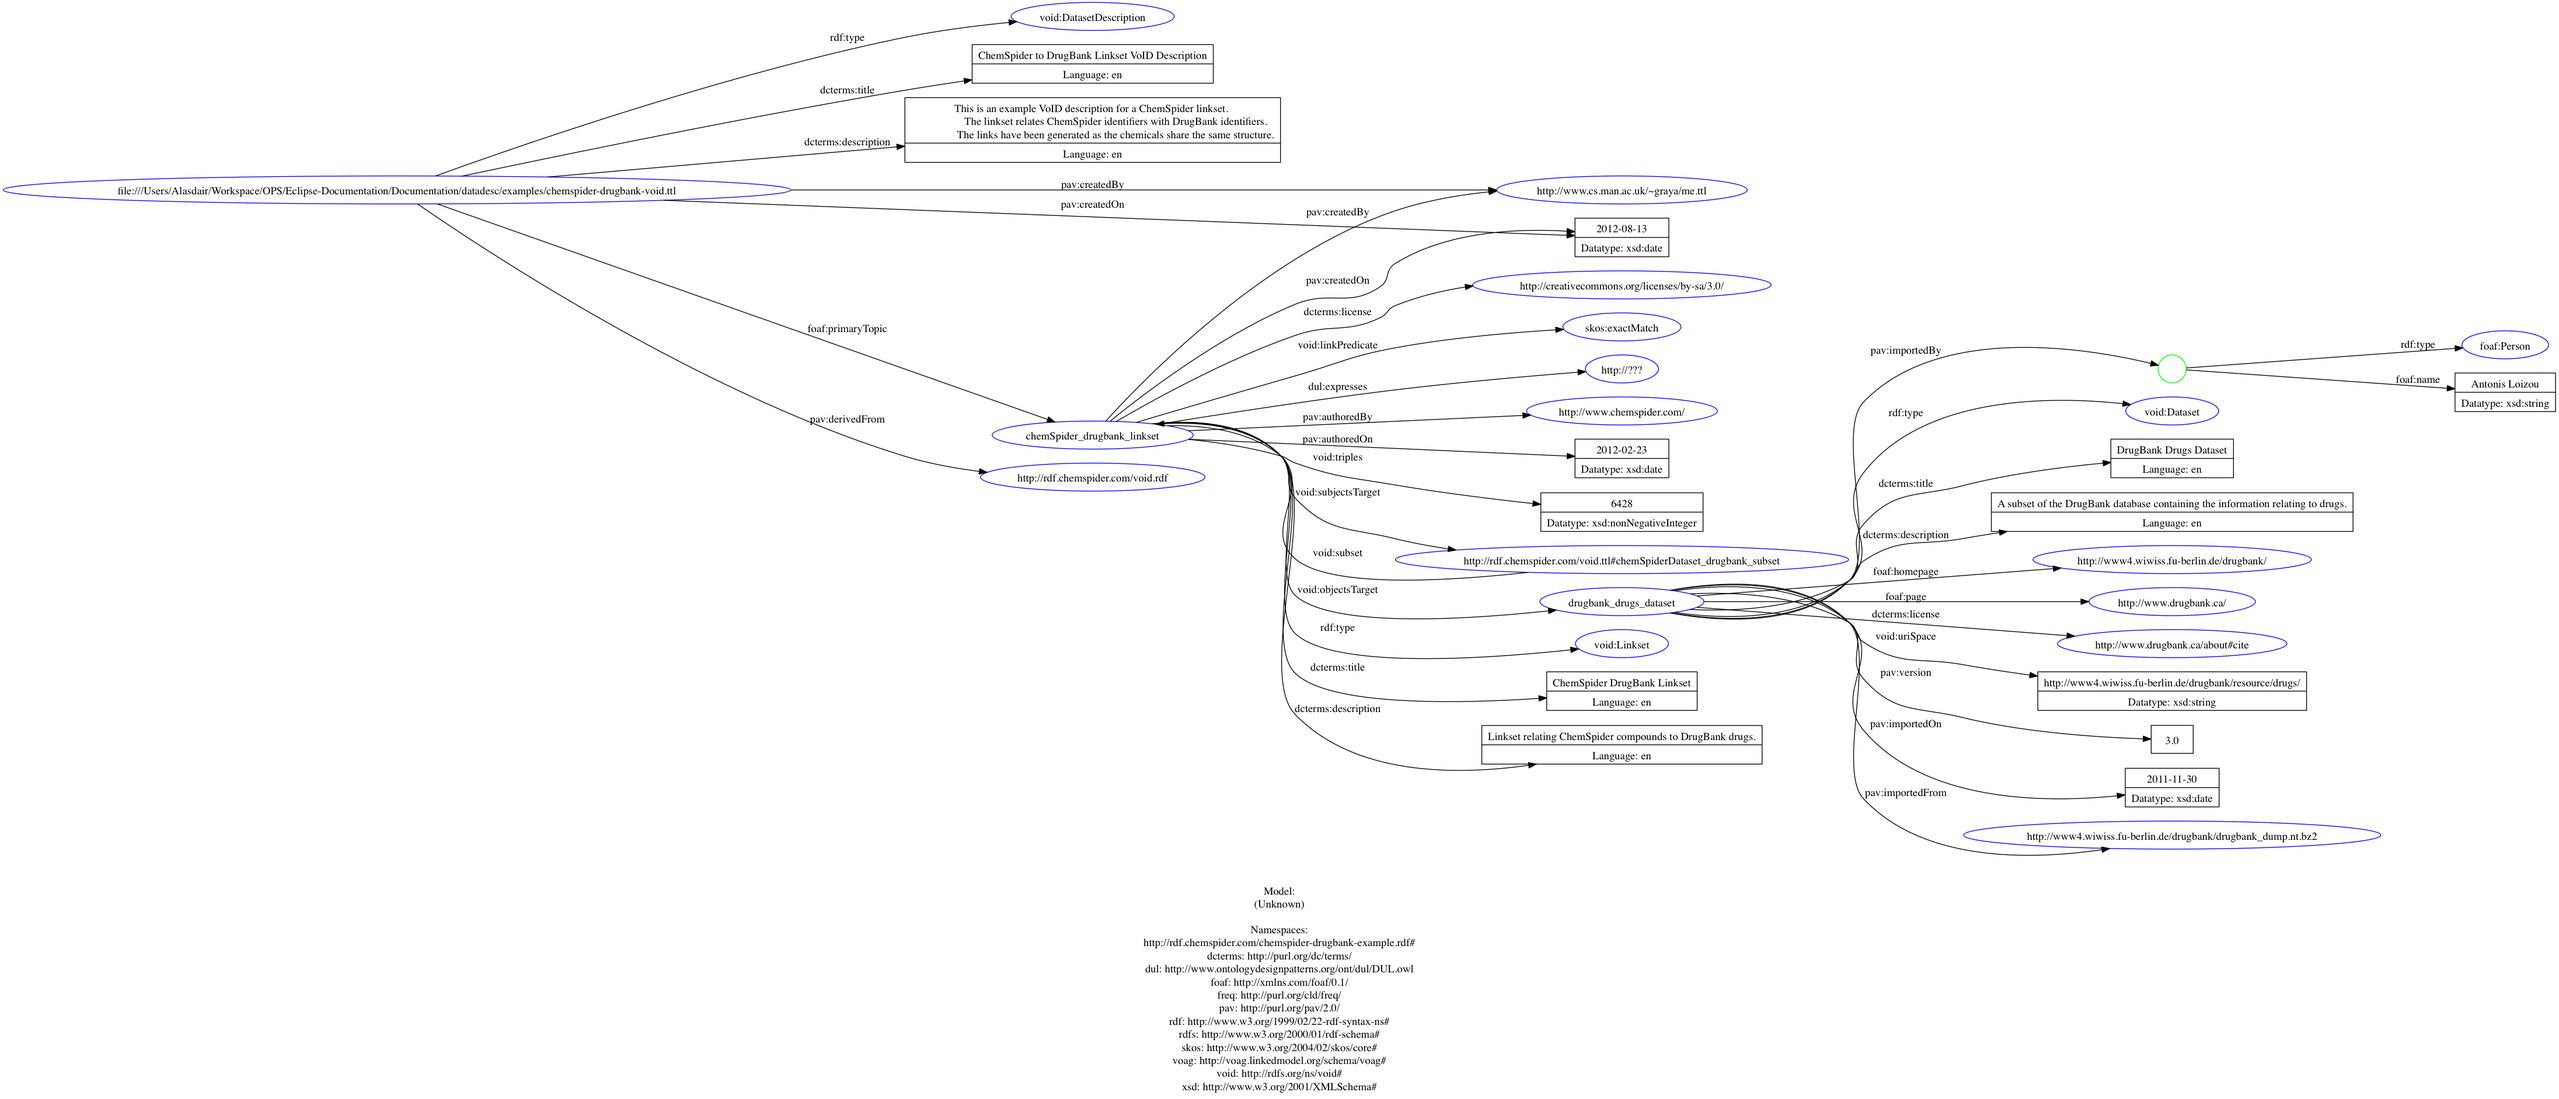
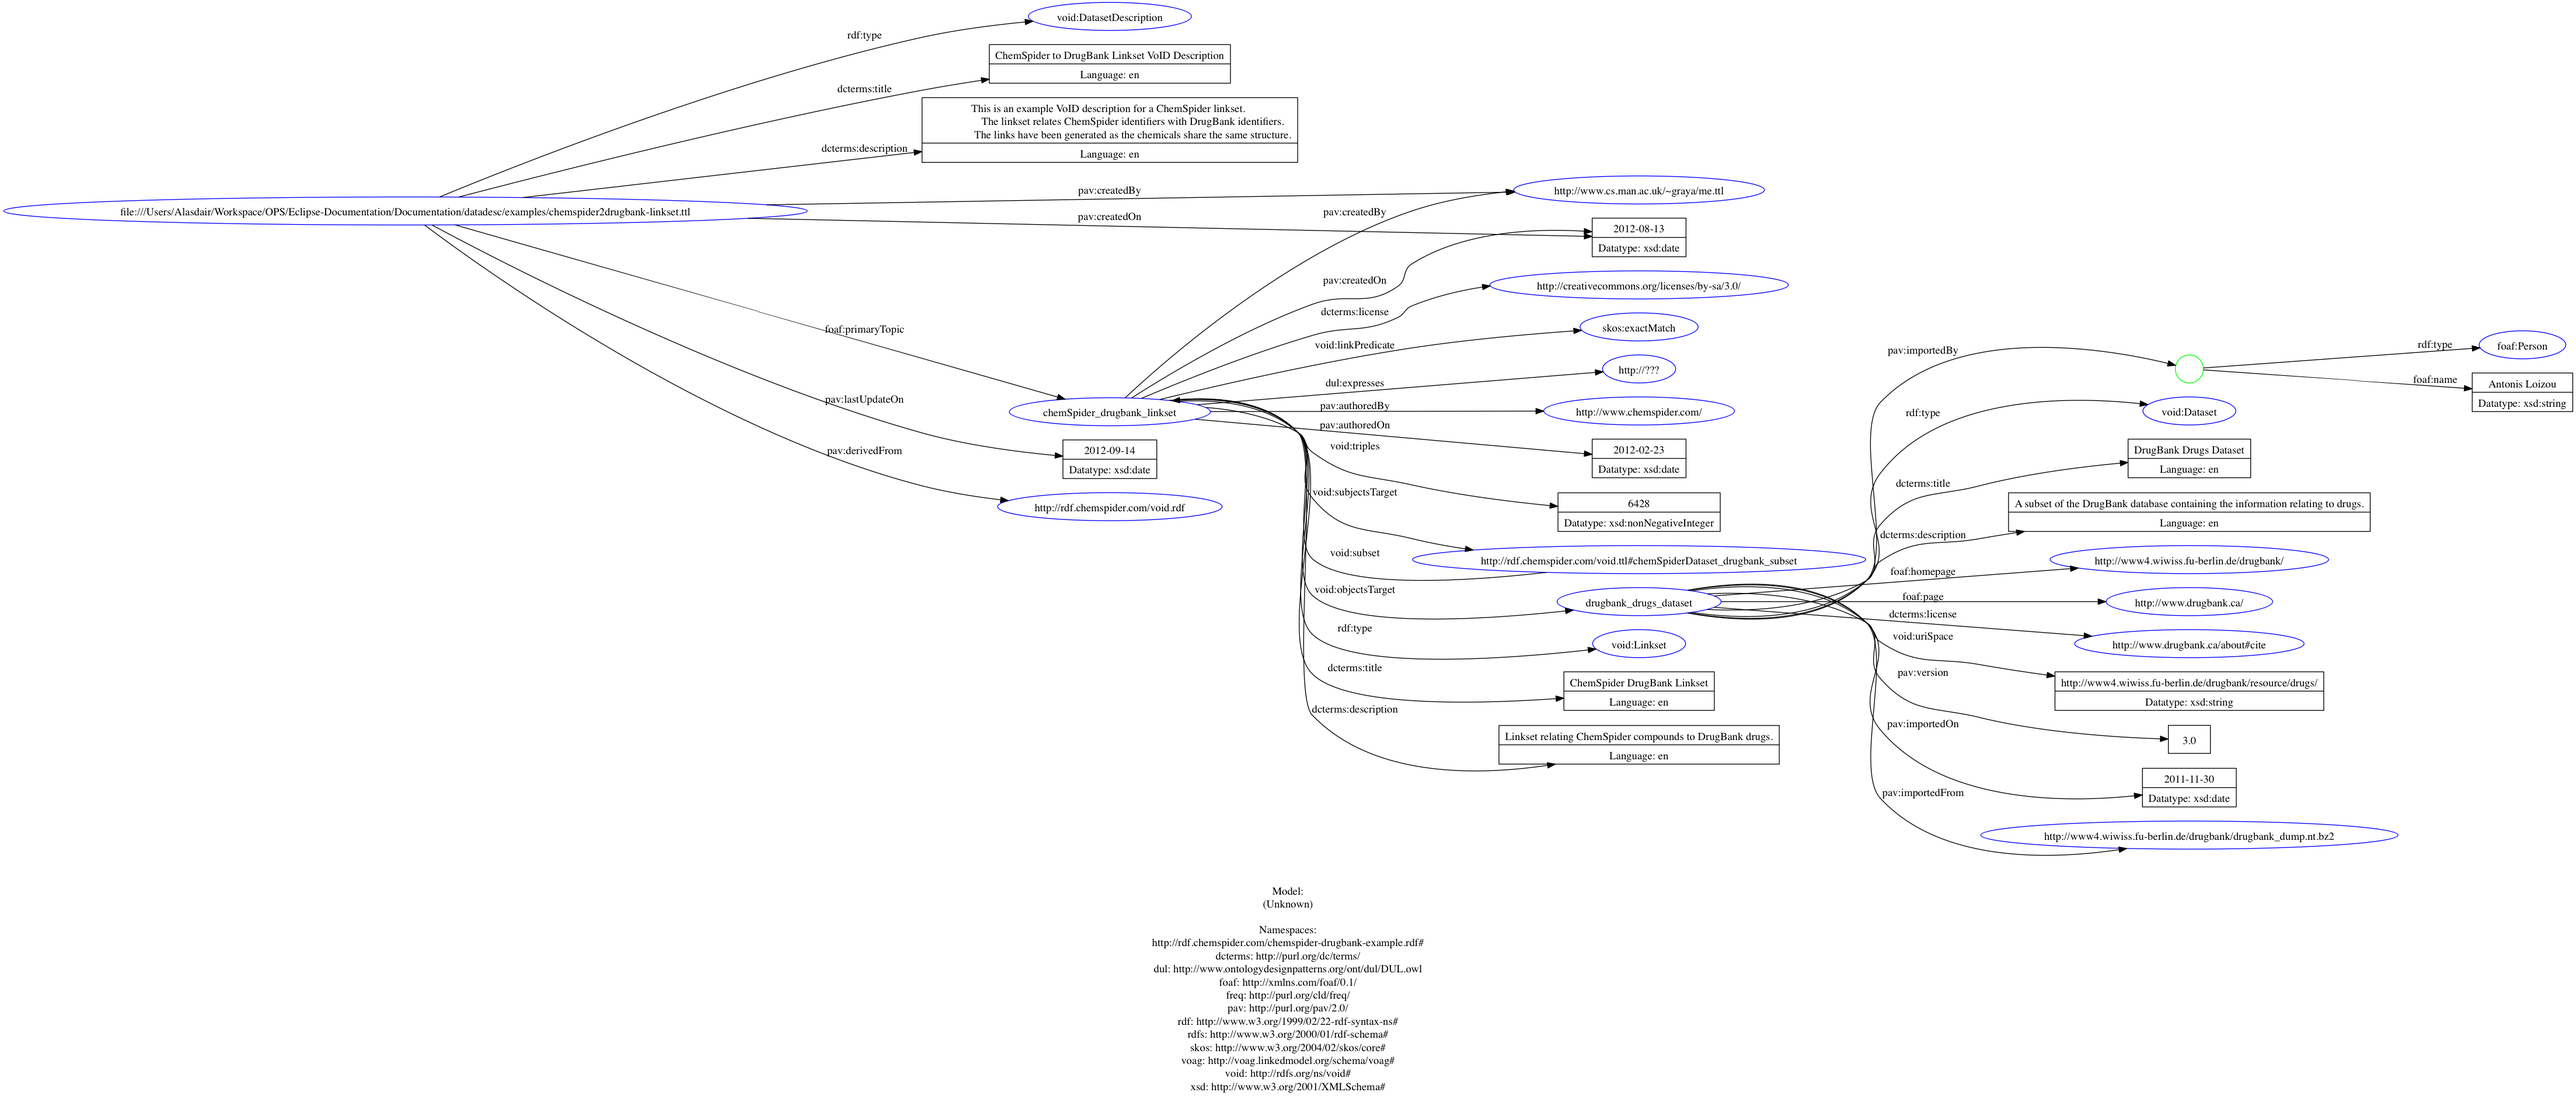
RESOLVED - issue DOC-90: Describe void header https://openphacts2011.atlassian.net/browse/DOC-90
Required properties now stated, examples updated.

diff --git a/datadesc/index.html b/datadesc/index.html
@@ -1677,6 +1677,7 @@
         """This is the VoID description for a ChEMBL-RDF dataset."""@en;
     pav:createdBy &lt;http://egonw.github.com/#me&gt; ;
     pav:createdOn "2012-08-12"^^xsd:date;
+    pav:lastUpdatedOn "2012-09-14"^^xsd:date;
     pav:previousVersion &lt;http://semantics.bigcat.unimaas.nl/chembl/v13_ops/chembl-rdf-void.ttl&gt;;
     foaf:primaryTopic :chemblrdf_dataset.
 
@@ -1806,6 +1807,7 @@
         with compounds in ChemSpider."""@en; 
     pav:createdBy &lt;http://egonw.github.com/#me&gt; ;
     pav:createdOn "2012-08-13"^^xsd:date ;
+    pav:lastUpdateOn "2012-09-14"^^xsd:date ;
     foaf:primaryTopic :chembl-rdf-compounds_cs_linkset ;
     .
  
@@ -1889,7 +1891,7 @@ chembl:CHEMBL144103 skos:exactMatch &lt;http://rdf.chemspider.com/60&gt; .
 		   The links have been generated as the chemicals share the same structure."""@en;
 	pav:createdBy &lt;http://www.cs.man.ac.uk/~graya/me.ttl&gt;;
 	pav:createdOn "2012-08-13"^^xsd:date;
-	pav:derivedFrom &lt;http://rdf.chemspider.com/void.rdf&gt;;
+	pav:lastUpdateOn "2012-09-14"^^xsd:date;
 	foaf:primaryTopic :chemSpider_drugbank_linkset;
 	.
 	
